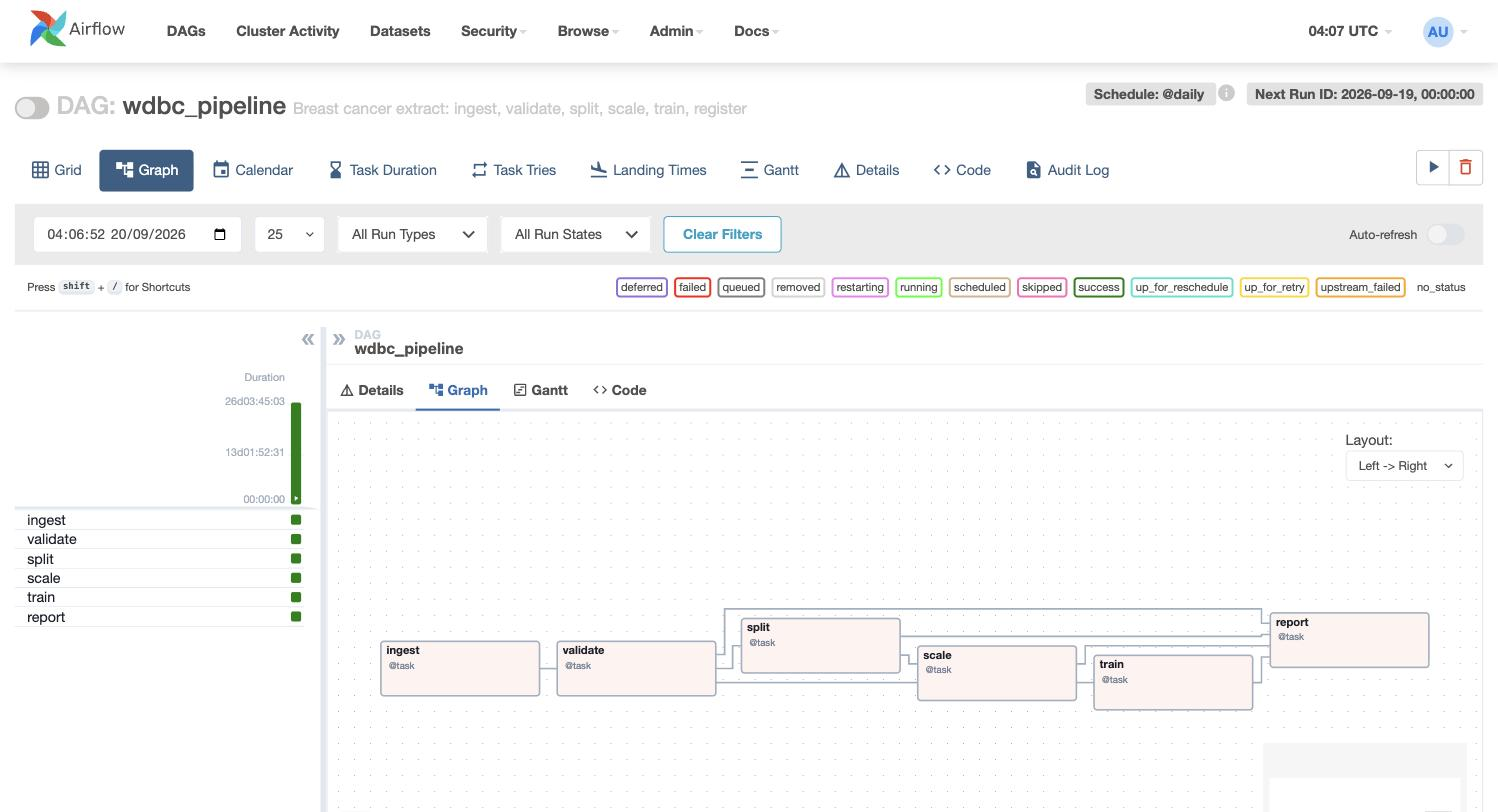
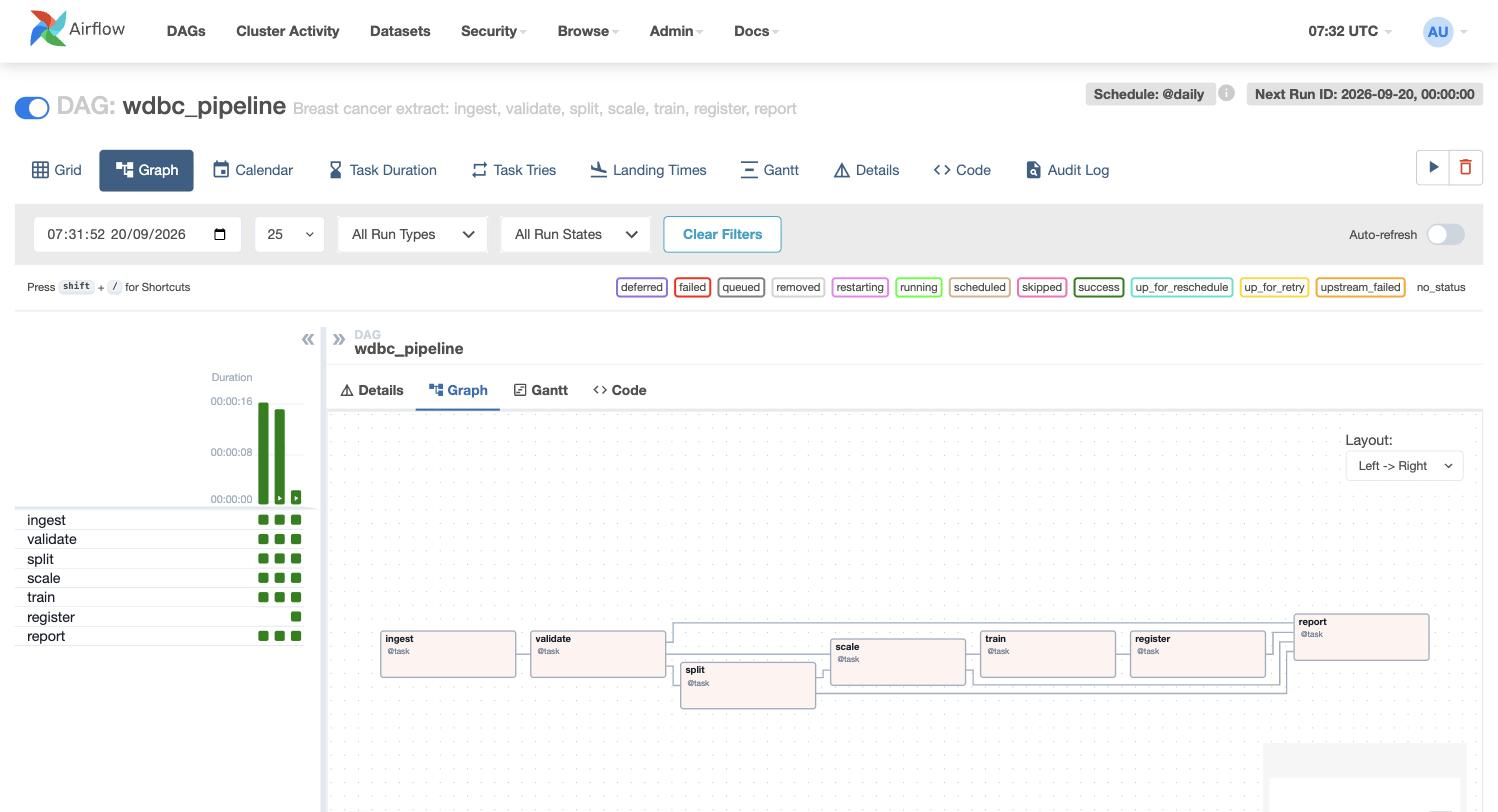
Split train into separate train + register tasks
train now only fits the model and logs the run to MLflow; register is a
new task that turns that run into a model registry version via
mlflow.register_model(runs:/<run_id>/model, ...). Makes registration
visible as its own step in the Grid/Graph view instead of being buried
inside train's logs. Verified: dags test succeeds, register logs
"registered wdbc-classifier version 7 from run ...". Updated screenshots
and README to match the new 7-task graph.

diff --git a/dags/wdbc_pipeline.py b/dags/wdbc_pipeline.py
@@ -1,7 +1,7 @@
 """
 DDM501 Tutorial 03 — a data pipeline that runs
 
-Six tasks: ingest -> validate -> split -> scale -> train -> report.
+Seven tasks: ingest -> validate -> split -> scale -> train -> register -> report.
 """
 from __future__ import annotations
 
@@ -48,7 +48,7 @@ def run_dir(ds: str) -> Path:
 
 @dag(
     dag_id="wdbc_pipeline",
-    description="Breast cancer extract: ingest, validate, split, scale, train, register",
+    description="Breast cancer extract: ingest, validate, split, scale, train, register, report",
     schedule="@daily",
     start_date=datetime(2026, 8, 20),
     catchup=False,
@@ -155,11 +155,14 @@ def wdbc_pipeline():
 
     @task
     def train(scaling: dict, ds: str = None) -> dict:
-        """Train on this run's scaled split and register the model with MLflow.
+        """Train on this run's scaled split and log a run to MLflow.
 
         The features are already scaled by the `scale` task, so this fits a
         plain classifier straight on train.parquet/test.parquet -- no
-        preprocessing pipeline needed here.
+        preprocessing pipeline needed here. Logs the model to the run but
+        does not register it -- that's the `register` task, kept separate
+        so a bad run can be inspected in MLflow without becoming a model
+        version.
         """
         train_df = pd.read_parquet(run_dir(ds) / "train.parquet")
         test_df = pd.read_parquet(run_dir(ds) / "test.parquet")
@@ -184,27 +187,28 @@ def wdbc_pipeline():
             mlflow.log_param("n_features", len(feature_cols))
             mlflow.log_metric("accuracy", accuracy)
             mlflow.log_metric("roc_auc", auc)
-            # registered_model_name turns this logged model into a new version
-            # in the registry; the fetch script only ever asks for that.
-            mlflow.sklearn.log_model(
-                model,
-                artifact_path="model",
-                registered_model_name=MLFLOW_MODEL_NAME,
-                input_example=X_train.head(1),
-            )
+            mlflow.sklearn.log_model(model, artifact_path="model", input_example=X_train.head(1))
             run_id = run.info.run_id
 
-        latest = mlflow.MlflowClient().get_registered_model(MLFLOW_MODEL_NAME).latest_versions
-        version = max(int(v.version) for v in latest)
-        log.info("registered %s version %d from run %s (accuracy=%.4f, roc_auc=%.4f)",
-                  MLFLOW_MODEL_NAME, version, run_id, accuracy, auc)
-        return {"mlflow_run_id": run_id, "model_version": version,
-                "accuracy": round(accuracy, 4), "roc_auc": round(auc, 4)}
+        log.info("logged run %s (accuracy=%.4f, roc_auc=%.4f)", run_id, accuracy, auc)
+        return {"mlflow_run_id": run_id, "accuracy": round(accuracy, 4), "roc_auc": round(auc, 4)}
 
     @task
-    def report(validation: dict, split_info: dict, scaling: dict, training: dict, ds: str = None) -> str:
+    def register(training: dict) -> dict:
+        """Register the model `train` logged as a new version in the MLflow
+        model registry. Separate task so it shows up on its own in the Grid
+        view instead of being buried inside `train`'s log."""
+        mlflow.set_tracking_uri(MLFLOW_TRACKING_URI)
+        model_uri = f"runs:/{training['mlflow_run_id']}/model"
+        version = mlflow.register_model(model_uri, MLFLOW_MODEL_NAME)
+        log.info("registered %s version %s from run %s",
+                  MLFLOW_MODEL_NAME, version.version, training["mlflow_run_id"])
+        return {**training, "model_version": int(version.version)}
+
+    @task
+    def report(validation: dict, split_info: dict, scaling: dict, registered: dict, ds: str = None) -> str:
         """One line per run, appended to a log the whole pipeline shares."""
-        summary = {"ds": ds, **validation, **split_info, **scaling, **training}
+        summary = {"ds": ds, **validation, **split_info, **scaling, **registered}
         summary.pop("path", None)
         (run_dir(ds) / "summary.json").write_text(json.dumps(summary, indent=2))
 
@@ -222,7 +226,8 @@ def wdbc_pipeline():
     scaling = scale(validated)
     split_info >> scaling
     training = train(scaling)
-    report(validated, split_info, scaling, training)
+    registered = register(training)
+    report(validated, split_info, scaling, registered)
 
 
 wdbc_pipeline()

diff --git a/README.md b/README.md
@@ -149,12 +149,13 @@ Pass `--version N` to pull a specific model version instead of the latest, or
 `airflow`, đợi cả hai healthy) **hoàn toàn độc lập** — đã tắt hẳn stack của
 Tutorial 02-02 trong lúc test để xác nhận không còn phụ thuộc gì vào nó:
 
-- `airflow dags test wdbc_pipeline <ds>` — cả 6 task
-  (`ingest → validate → split → scale → train → report`) đều SUCCESS, nhiều
-  lần với các ngày khác nhau.
-- Task `train` đăng ký thành công model `wdbc-classifier` lên MLflow server
-  tự chứa của chính T03 (SQLite backend + artifact lưu qua HTTP proxy của
-  chính MLflow server, không cần S3/MinIO): `accuracy=0.9512`,
+- `airflow dags test wdbc_pipeline <ds>` — cả 7 task
+  (`ingest → validate → split → scale → train → register → report`) đều
+  SUCCESS, nhiều lần với các ngày khác nhau. `train` (log run) và `register`
+  (đăng ký version) là 2 task tách riêng để dễ quan sát trên Grid view.
+- Task `register` đăng ký thành công model `wdbc-classifier` lên MLflow
+  server tự chứa của chính T03 (SQLite backend + artifact lưu qua HTTP proxy
+  của chính MLflow server, không cần S3/MinIO): `accuracy=0.9512`,
   `roc_auc=0.9956`. Chạy lại vẫn tạo version mới mỗi lần, không ghi đè.
 - `scripts/fetch_and_predict.py` tải model về qua MLflow client API và dự
   đoán đúng 5/5 dòng test so với nhãn thật (`diagnosis`).
@@ -172,8 +173,8 @@ của chính MLflow server thay vì giả định hai container dùng chung file
 | | |
 |---|---|
 | `./setup.sh` — output thật: build cả 2 image, đợi `mlflow` rồi `airflow` healthy, in URL/password | ![setup.sh output](docs/screenshots/setup-sh-output.jpg) |
-| Airflow — DAG `wdbc_pipeline`, cả 6 task SUCCESS (container `ddm501-t03-airflow` đang chạy) | ![Airflow grid success](docs/screenshots/airflow-grid-success.jpg) |
-| Airflow — Graph view, `train` nối sau `scale`, trước `report` | ![Airflow graph](docs/screenshots/airflow-graph.jpg) |
+| Airflow — DAG `wdbc_pipeline`, cả 7 task SUCCESS (container `ddm501-t03-airflow` đang chạy) | ![Airflow grid success](docs/screenshots/airflow-grid-success.jpg) |
+| Airflow — Graph view, `train` và `register` tách riêng giữa `scale` và `report` | ![Airflow graph](docs/screenshots/airflow-graph.jpg) |
 | MLflow — 2 version của `wdbc-classifier` đã đăng ký | ![MLflow registered versions](docs/screenshots/mlflow-registered-versions.jpg) |
 | MLflow — chi tiết run: `accuracy=0.9512`, `roc_auc=0.9956`, nguồn `airflow`, đã register `wdbc-classifier v2` | ![MLflow run metrics](docs/screenshots/mlflow-run-metrics.jpg) |
 | `scripts/fetch_and_predict.py` — output thật của lần chạy: tải `wdbc-classifier` version 2 và dự đoán đúng 5/5 dòng test | ![fetch_and_predict.py output](docs/screenshots/fetch-and-predict-output.jpg) |
